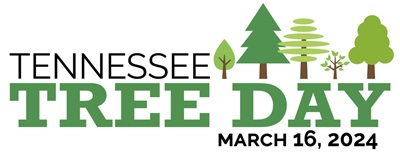
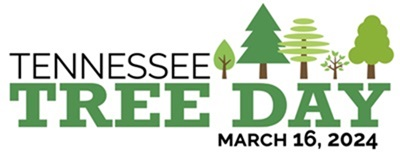
spruced it up

diff --git a/style.css b/style.css
@@ -7,7 +7,7 @@ body {
 h1 {
 text-align: center;
 font-size: 24px;
-color:#047823;
+color:#306519;
 text-shadow: 1px 1px black;
 }
 
@@ -17,19 +17,23 @@ text-shadow: 1px 1px black;
   display: block;
   margin-left: auto;
   margin-right: auto;
-  max-width: 100%;
+  max-width: 100%; 
+  padding-bottom: 10px;
+}
+
+.background {
+	background-image: url("images/background.jpg");
 }
 
 
-
  .ribbon {
- /* background-color: #047823;*/
  background-image: url("images/ivy.jpg");
+ width: 100%;
 }
 
   
 .announcement {
-color: #047823;
+color: #306519;
 font-weight: bold;
 font-size: 20px;
 }
@@ -37,10 +41,10 @@ font-size: 20px;
 .dropbtn {
   background-color: transparent;
   color: white;
-  padding: 28px;
+  padding: 25px;
   font-size: 20px;
-  font-weight: bold;
-    text-shadow: 1px 1px white;
+  font-weight: 900;
+/*   text-shadow: 1px 1px white;*/
 
   border: none;
   cursor: pointer;
@@ -69,10 +73,10 @@ font-size: 20px;
   display: block;
 }
 
-.dropdown-content a:hover {background-color: #9e9d9d}
+.dropdown-content a:hover {background-color: #97e376;}
 
 .dropdown:hover .dropbtn {
-  background-color: #068a29;
+  background-color: #97e376;;
 }
 .dropdown:hover .dropdown-content {
   display: block;
@@ -92,19 +96,30 @@ a.menu {
   cursor: pointer;
 }
 a:hover {
-  background-color: #068a29;
+  background-color:#97e376;
 }
 
 
 .aux{
-  background-color:#047823;
+  /*background-color:#047823;*/
+  border: solid;
+  border-width: 10px;
+  border-color: #306519;
   text-align:left;
   padding: 10px;
-  color: white;
+  color: #306519;
   font-size: 20px;
+  font-weight: bold;
   margin-right: 10%;
   margin-left: 10%;
+  font-weight: bold;
+  max-width: 100%;
 }
+.classimg {
+	max-width: 100%;
+}
+	
+	
 
 
     
@@ -122,17 +137,19 @@ a:hover {
 .flex-container {
   display: flex;  /* Arrange images side by side */
   flex-wrap: wrap; /* Allow images to wrap on smaller screens */
+  justify-content: center;
+  align-items: start;
 }
 
 .flex-container img { 
- /* width: 400px;*/
-  height: auto;
- /* min-width: 46%;  Each image takes up 50% of the container */
-  margin: 5px; /* Add spacing between images */
-  max-width: 100%; /* Prevent images from exceeding container width */
+ height:auto;
+ /*width: 400px;*/
+ margin: 18px;
+ max-width: 100%; /* Prevent images from exceeding container width */
 }
 
-#partner {
+.partner {
+	display:inline;
 	width: 100px;
 	height: auto;
 	margin: 5px;
@@ -141,13 +158,15 @@ a:hover {
 
 .flex-container p {
 	padding-left: 10px;
-	color: #047823;
+    border: solid;
+    border-width: 10px;
+    border-color: #306519;
+	color: #306519;
 	font-weight: bold;
-	width: 350px;
-	min-width: 25%;
+	width: 400px;
 	max-width: 100%;
 }
-
+/* newsletter list*/
 .flex-container span {
   font-weight: bold;
   width: 200px;

diff --git a/mission.htm b/mission.htm
@@ -18,14 +18,43 @@
 
   gtag('config', 'G-90SV7WC457');
 </script>
- 
+ <div class="background">	
 <div class="center">
 <img src="images/logo.jpg" alt="RCMGA Logo" id="logo">
 </div>
 
+
+
 <h1>Our Mission</h1>
 
 <div class="aux">
-The Tennessee Extension Master Gardener Program seeks to improve the lives of Tennesseans by promoting environmental stewardship, noncommercial food production and human health and well-being through residential and consumer horticulture education delivered by a dedicated and skilled volunteer network.
+The Tennessee Extension Master Gardener Program seeks to improve the lives of Tennesseans by promoting environmental stewardship, 
+noncommercial food production and human health and well-being through residential and consumer horticulture education delivered by a 
+dedicated and skilled volunteer network.
 </div>
+
+<h1>Our Vision</h1>
+
+<div class="aux">
+The Tennessee Extension Master Gardener Program provides innovative, research-based, and usable residential and consumer
+horticulture information to all Tennessee communities and residents.
+</div>
+
+<h1>Our Values</h1>
+
+<div class= "flex-container">
+<p><i>Providing</i> research-based residential and consumer horticulture education in a responsive and timely manner to 
+augment and extend Tennessee Extension Master Gardener programs and achieve the Extension mission.</p>
+<p><i>Collaborating</i> with Extension personnel and local municipal and non-profit groups to offer educational leadership
+for better horticulture practices and programs in communities across Tennessee. <br><br></p>
+<p><i>Fostering</i> a vibrant and effective learning environment that supports committed and engaged volunteers and attracts new
+Extension Master Gardener Volunteers to the program.<br><br></p>
+<p><i>Encouraging</i> environmental stewardship, noncommercial food production, and youth education in communities and cities across
+Tennessee through engaging education and outreach programs.</p>
+<p><i>Investing</i> in educational tools and events that provide information to meet present needs while laying the foundation to
+serve Tennessee residents and communities in the future.</p>
+</div>
+
+</div>  <!--- end background-->
+
 </html>

diff --git a/about.htm b/about.htm
@@ -17,8 +17,7 @@
 
   gtag('config', 'G-90SV7WC457');
 </script>
- 
- 
+<div class ="background">
 <div class="center">
 <img src="images/logo.jpg" alt="RCMGA Logo" id="logo">
 </div>
@@ -34,21 +33,29 @@ We collaborate not only with Extension personnel but with a myriad of local muni
 our community partners: <br><br>
 
 <div class= "flex-container">
+<div class="partner">
 <img src= "images/partnerlogos/ridgetop.jpg" alt="City of Ridgetop" width="100px">
+</div>
+<div class="partner">
 <img src= "images/partnerlogos/tennessee_environmental_council.jpg" alt="Tennessee Environmental Council" width="100px">
+</div>
+<div class= "partner">
 <img src= "images/partnerlogos/whlibrary.jpg" alt="White House Public Library" width="100px">
+</div>
+<div class= 'partner'>
 <img src= "images/partnerlogos/ymca.jpg" alt="YMCA" width="100px">
+</div>
+<div class="partner">
 <img src= "images/partnerlogos/ut.jpg" alt="Highland Rim Research Center" width="100px" height="100px">
+</div>
+<div class="partner">
 <img src= "images/partnerlogos/stokes_brown.jpg" alt="Stokes Brown Public Library" width="100px">
+</div>
+<div class="partner">
 <img src= "images/partnerlogos/robco_schools.jpg" alt="Robertson County Schools" width="100px">
-
-
-
-
-
-
-
 </div>
+</div> <!-- end flex container-->
 
-</div>
+</div> <!-- end aux-->
+</div> <!-- end background-->
 </html>

diff --git a/contact_us.htm b/contact_us.htm
@@ -20,26 +20,26 @@
 </script>
  
  <body>
-
+<div class="background">
 <div class="center">
 <img src="images/logo.jpg" alt="RCMGA Logo" id="logo">
 </div>
 
 <div class="aux">
-<p class="center">
+<div class= "center">
 Shawn Herman, President <br> 
-<a style="color:white" href= "mailto:buerger48@outlook.com">buerger48@outlook.com</a><br><br>
+<a style="color:#306519" href= "mailto:buerger48@outlook.com">buerger48@outlook.com</a><br><br>
 Nola Hastings, Vice-President <br>
-<a style="color:white" href= "mailto:nola@gmail.com">nola@gmail.com</a><br><br>
+<a style="color:#306519" href= "mailto:nola@gmail.com">nola@gmail.com</a><br><br>
 Holly Brooks, Secretary <br> 
-<a style="color:white" href= "mailto:hbayer6000@aol.com">hbayer6000@aol.com</a><br><br>
+<a style="color:#306519" href= "mailto:hbayer6000@aol.com">hbayer6000@aol.com</a><br><br>
 Sandy Williams, Treasurer <br>  
-<a style="color:white" href= "mailto:skwill55@att.net">skwill55@att.net</a><br><br>
+<a style="color:#306519" href= "mailto:skwill55@att.net">skwill55@att.net</a><br><br>
 Bob Ary <br>Robertson County Master Gardener Coordinator <br>  
-<a style="color:white" href= "mailto:bobary@utk.edu">bobary@utk.edu</a><br><br>
+<a style="color:#306519" href= "mailto:bobary@utk.edu">bobary@utk.edu</a><br><br>
 </p>
 </div>
-
+</div> 
 
 </body>
 </html>

diff --git a/index.htm b/index.htm
@@ -22,8 +22,8 @@
   gtag('config', 'G-90SV7WC457');
 </script>
  
- <div class="center">
-<img src="images/logo.jpg"  alt="logo"  id="logo" >
+ <div class="logo">
+<img src="images/logo.jpg"  alt="logo" id="logo" >
 </div>
 
 
@@ -72,9 +72,9 @@
 <br>
 
 <div class="flex-container">
-<a href= "https://www.tectn.org/tennesseetreeday.html"> <img src="images/tree_day_2024.jpg" alt="become a master gardener" ></a>
-	     <p> To order trees, click on the Tree Day logo and ensure that you select the Robertson County Extension Office 
-		 as your pick-up location. Last year, the Robertson County Master Gardeners distributed 1,076 native trees.
+<a href= "https://www.tectn.org/tennesseetreeday.html"> <img src="images/tree_day_2024.jpg" alt="tree day" ></a>
+	     <p>To order trees, click on the Tree Day logo and ensure that you select the Robertson County Extension Office 
+		 as your pick-up location. Last year, the Robertson County Master Gardeners distributed 1,076 native trees.</p>
 </div>
 
 <div class="center">

diff --git a/plant_sale.htm b/plant_sale.htm
@@ -19,6 +19,7 @@
   gtag('config', 'G-90SV7WC457');
 </script>
  
+ <div class="background">
  
 <div class="center">
 <img src="images/logo.jpg" alt="RCMGA Logo"  id="logo">
@@ -33,6 +34,17 @@ our sale. Formerly located in front of the UT Extension Office in downtown Sprin
  at The Highland Rim Research and Education Center located at 3181 Experiment Station Rd, Springfield, TN 37172 .
  The proceeds generated from this event go towards supporting our community projects. It's a 
  win-win situation: you get a great deal, and we reinvest the funds into our community.
+</div>
+
+<div class="flex-container">
+<img src= "images/plantsale/pic3.jpg" alt="plant sale" width="500px">
+<img src= "images/plantsale/pic1.jpg" alt="plant sale" width="500px">
+<img src= "images/plantsale/pic5.jpg" alt="plant sale" width="500px">
+<img src= "images/plantsale/pic2.jpg" alt="plant sale" width="500px">
+<img src= "images/plantsale/pic4.jpg" alt="plant sale" width="500px">
+
+</div>
+</div>
 </div>
 
 </html>

diff --git a/become_a_mg.htm b/become_a_mg.htm
@@ -17,7 +17,7 @@
 
   gtag('config', 'G-90SV7WC457');
 </script>
- 
+<div class="background">
 <div class="center">
 <img src="images/logo.jpg" alt="RCMGA Logo" id="logo" >
 </div>
@@ -49,5 +49,6 @@ For a registration fee of $175 ($225 for couples sharing materials), you gain ac
  The Master Gardener training 
  class is held once a year usually beginning in February.  Contact BobAry@utk.edu if interested in attending the
  next class.
+</div>
 </div>
 </html>

diff --git a/training.htm b/training.htm
@@ -18,6 +18,7 @@
   gtag('config', 'G-90SV7WC457');
 </script>
  
+ <div class="background">
 <div class="center">
 <img src="images/logo.jpg" alt="RCMGA Logo" id="logo" >
 </div>
@@ -46,6 +47,12 @@
  </ul>
  <br>
  If interested in attending the next class, contact Bobary@UTK.edu.
+
+<div class= "classimg">
+ <img src="images/mgclass2023.jpg" alt="Class of 2023" width= "100%">
+ </div>
+ </div>
+
  
 </div>
 </html>
